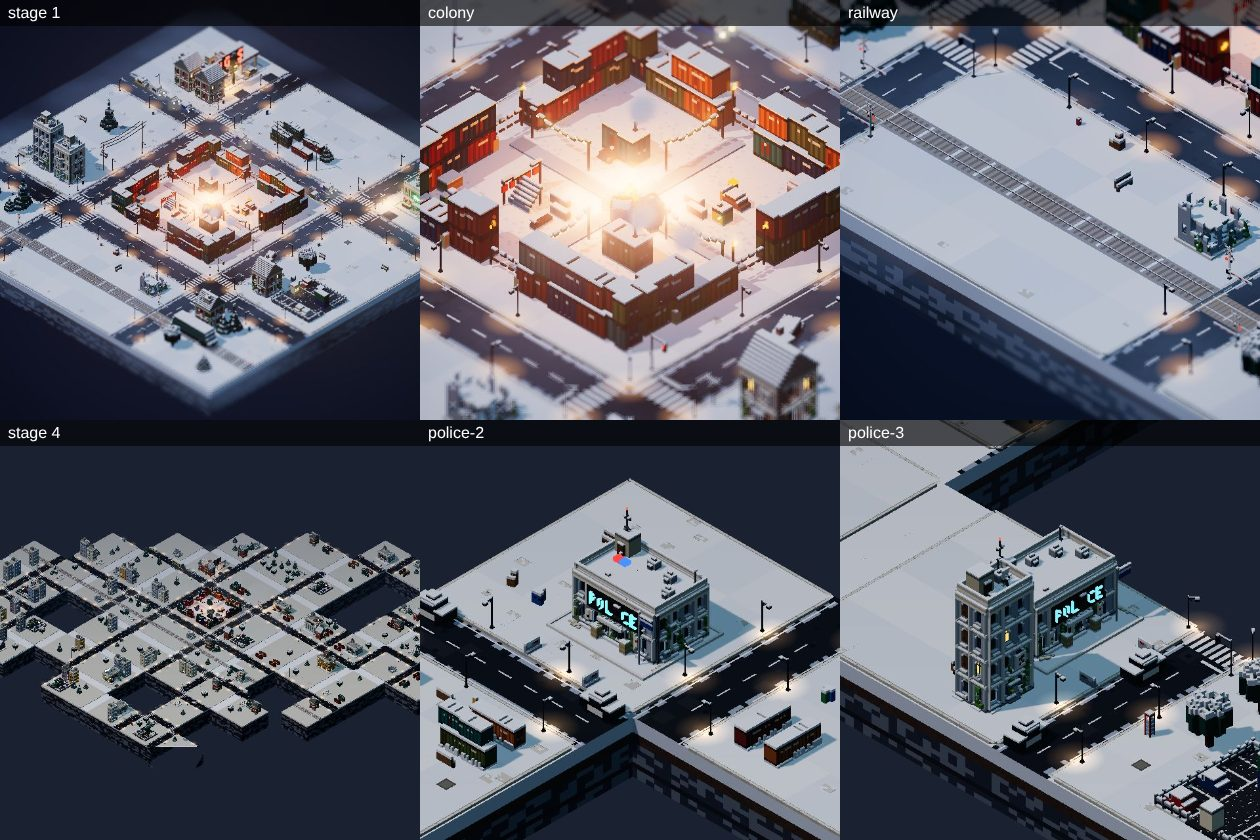
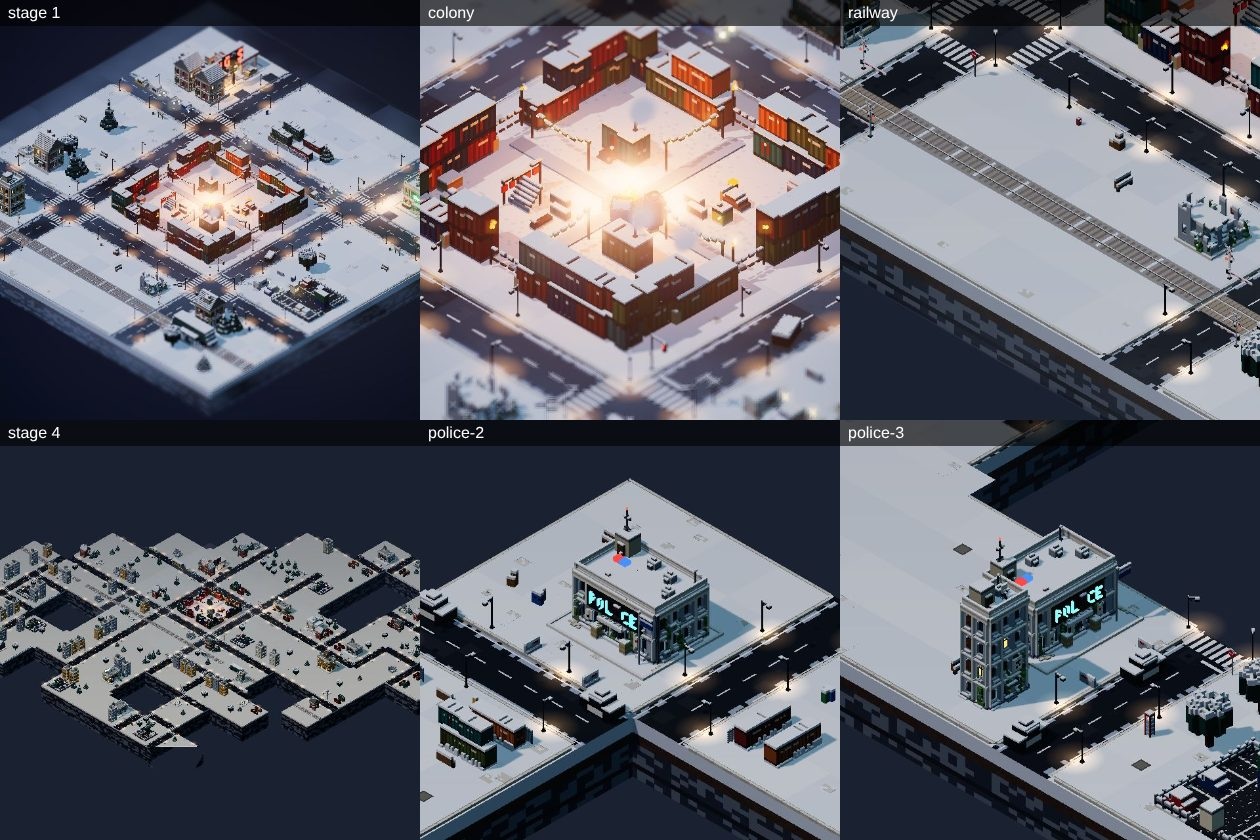
MAP-4 items 1-7: main avenue (lights, direction signs, bus stops), stop signs on side streets, downtown street walls, fenced yards and lots, power drops to buildings, a station by the avenue crossing, SAFE ZONE boards and a second checkpoint, blended district borders
Claude-Session: https://claude.ai/code/session_01QukSoSL7rSXNw6vdcpJ2RK

diff --git a/src/render/board.js b/src/render/board.js
@@ -6,7 +6,7 @@ import { VoxelModel, hash3, MATERIALS, geometriesFor, groupOf, packedBounds } fr
 import { P } from './palette.js';
 import { LOCATION_BUILDERS_HD, colonyHD, treeModelHD, rockModelHD } from './buildings.js';
 import { buildTerrainHD, ROAD } from './terrain.js';
-import { carModel, lampModel, containerModel, clutterModel, CLUTTER_KINDS, crossingModel, wagonModel, bufferStopModel, FURNITURE, furnitureModel, trafficLightModel, streetSignModel, powerPoleModel, vehicleModel, checkpointModel, burntCarModel, tentModel, statueModel } from './props.js';
+import { carModel, lampModel, containerModel, clutterModel, CLUTTER_KINDS, crossingModel, wagonModel, bufferStopModel, shelterModel, stopSignModel, directionSignModel, safeZoneModel, fenceModel, FURNITURE, furnitureModel, trafficLightModel, streetSignModel, powerPoleModel, vehicleModel, checkpointModel, burntCarModel, tentModel, statueModel } from './props.js';
 import { markingQuads, lampSpots, railQuads, streetRuns, rampQuads } from './streets.js';
 import { blockSlab, GROUND } from './ground.js';
 import { mergeGeometries } from 'three/examples/jsm/utils/BufferGeometryUtils.js';
@@ -207,7 +207,20 @@ export function districtOf(bx, bz, look = 0) {
   if (!bx && !bz) return 'colony';
   const a0 = hash3(look, 13, 7) * Math.PI * 2;
   let d = Math.abs(Math.atan2(bz, bx) - a0) % (Math.PI * 2); if (d > Math.PI) d = Math.PI * 2 - d;
-  return d < Math.PI / 3 ? 'downtown' : d > (2 * Math.PI) / 3 ? 'industrial' : 'residential';
+  const pure = (a) => (a < Math.PI / 3 ? 'downtown' : a > (2 * Math.PI) / 3 ? 'industrial' : 'residential');
+  // MAP-4: districts blend over a block: near a border some blocks take the neighbouring district's character.
+  const here = pure(d);
+  for (const step of [-Math.PI / 6, Math.PI / 6]) {
+    let d2 = Math.abs(Math.atan2(bz, bx) + step - a0) % (Math.PI * 2); if (d2 > Math.PI) d2 = Math.PI * 2 - d2;
+    if (pure(d2) !== here && hash3(bx, 97, bz) < 0.4) return pure(d2);
+  }
+  return here;
+}
+/** MAP-4: the main avenue: the colony-row edge line across the railway (seeded side): { axis, c }. */
+export function avenueLine(m) {
+  const rail = railLine(m);
+  const li = hash3(m?.look ?? 0, 19, 4) < 0.5 ? 0 : 1;
+  return { axis: rail.axis === 'x' ? 'z' : 'x', c: blockPos(li) - blockHalf(li) };
 }
 const DISTRICT_RECIPES = {
   downtown: [['shop', 55], ['house', 30], ['car', 8], ['clutter', 7]],
@@ -225,7 +238,7 @@ export const openBlock = (b, bx, bz) => RECIPES[b.kind] && b.kind !== 'place' &&
  * centrepiece and 1–2 pieces) stay inside one 3×2 window at the front; other chunks are open, now and then with one
  * bench or one tree. Seeded by the block, so a block never changes.
  */
-export function blockPieces(b, bx, bz, plan, recipe = RECIPES[b.kind] ?? RECIPES.place) {
+export function blockPieces(b, bx, bz, plan, recipe = RECIPES[b.kind] ?? RECIPES.place, district = null) {
   const out = [];
   const h = (k) => hash3(bx * 7 + k, 73, bz * 7 - k);
   const cols = plan.covered.map((c) => +c.split(',')[1]);
@@ -242,6 +255,8 @@ export function blockPieces(b, bx, bz, plan, recipe = RECIPES[b.kind] ?? RECIPES
   if (b.kind === 'place') n = built >= 4 ? (h(2) < 0.75 ? 1 : 2) : 2;
   else if (openBlock(b, bx, bz)) n = 0;
   else n = 2; // two pieces besides any centrepiece (still inside the 3×2 window)
+  // MAP-4 frontage: downtown, the whole front row of the window is built (a continuous street wall).
+  if (district === 'downtown' && !openBlock(b, bx, bz)) n = Math.max(n, win.filter(([i]) => i === 0).length);
   n = Math.min(n, 6 - built, win.length);
   const used = new Set();
   for (let k = 0; k < n; k++) {
@@ -579,7 +594,7 @@ export function createBoard({ progressive = false } = {}) {
     };
     const houses = Array.from({ length: city.SMALL_VARIANTS }, () => []);
     const put = (list, p, rotY, scale = 1) => { tmp.position.copy(p); tmp.rotation.set(0, rotY, 0); tmp.scale.setScalar(scale); tmp.updateMatrix(); list.push(tmp.matrix.clone()); };
-    const ruins = [[], []]; const pieces = { parking: [], fountain: [] }; const clutter = Array.from({ length: CLUTTER_KINDS }, () => []);
+    const ruins = [[], []]; const pieces = { parking: [], fountain: [] }; const fences = { picket: [], chain: [] }; const clutter = Array.from({ length: CLUTTER_KINDS }, () => []);
     const roadSet = new Set(map.roads);
     for (const key of keys) {
       const b = map.blocks[key];
@@ -598,7 +613,8 @@ export function createBoard({ progressive = false } = {}) {
         }
         // MAP-3 calmer blocks: everything built (place / centrepiece + pieces) fits in a 3×2 window at the street side;
         // the other chunks stay open (paving or snow, now and then one bench or one tree).
-        for (const [i, j, what] of blockPieces(b, bx, bz, plan, recipe)) {
+        for (const [i, j, what0] of blockPieces(b, bx, bz, plan, recipe, district)) {
+          const what = district === 'downtown' && i === 0 && what0 !== 'bench' && what0 !== 'tree' ? 'shop' : what0;
           const p = chunkCenter(plan, i, j);
           const r2 = hash3(bx * 5 + i, 67, bz * 5 + j);
           // Front-row buildings face the street; others any way.
@@ -608,7 +624,14 @@ export function createBoard({ progressive = false } = {}) {
             const shopPool = pool.filter((v) => v % 2 === 0); const housePool = pool.filter((v) => v % 2 === 1);
             const list = what === 'shop' && shopPool.length ? shopPool : what !== 'shop' && housePool.length ? housePool : pool;
             const v = list[Math.floor(r2 * list.length)];
-            put(houses[v % city.SMALL_VARIANTS], p, face, city.SMALL_SCALE);
+            // Downtown front rows: sized to their chunk's width, side by side (no gaps); others the usual size.
+            const wide = district === 'downtown' && i === 0 ? Math.min(1.1, (CHUNK - 0.25) / ((16 + (v % 3) * 2 + 7) * 0.3)) : city.SMALL_SCALE; // + fire escape, AC, snow bank
+            put(houses[v % city.SMALL_VARIANTS], p, face, wide);
+            const floors = 2 + (v % 3); const dep = (14 + (v % 2) * 3) * 0.3 * wide;
+            const toward = plan.fwd.clone(); if (i !== 0) toward.set(Math.sin(face), 0, Math.cos(face));
+            houseSpots.push({ roof: p.clone().addScaledVector(toward, dep / 2 - 0.2).setY(GROUND + floors * 10 * 0.3 * wide + 0.2) });
+            // Residential front yards get a picket fence along the sidewalk.
+            if (district === 'residential' && i === 0) put(fences.picket, p.clone().addScaledVector(plan.fwd, CHUNK / 2 - 0.25), face0);
           } else if (what === 'trees') {
             for (let k = 0; k < 3; k++) {
               const q = p.clone().add(new THREE.Vector3((hash3(k, bx, j) - 0.5) * 4, 0, (hash3(k, bz, i) - 0.5) * 4));
@@ -621,6 +644,7 @@ export function createBoard({ progressive = false } = {}) {
             put(cars[Math.floor(r2 * 4)], p.clone().addScaledVector(across, -1.6), face + Math.PI / 2);
             put(cars[Math.floor(hash3(i, j, bx) * 4)], p.clone().addScaledVector(across, 1.6), face + Math.PI / 2);
           } else if (what === 'yard') {
+            if (district === 'industrial' && i === 0) put(fences.chain, p.clone().addScaledVector(plan.fwd, CHUNK / 2 - 0.2), face0); // a fenced lot
             // Two stacks side by side (offset across their length, whichever way they face).
             const across = new THREE.Vector3(Math.sin(face), 0, Math.cos(face));
             put(yards[Math.floor(r2 * 3)], p.clone().addScaledVector(across, -1.7), face);
@@ -669,6 +693,7 @@ export function createBoard({ progressive = false } = {}) {
     rocks.forEach((list, k) => { if (list.length) group.add(lazyLod('near', () => instanced(() => rockModelHD(k), 0.25, list, { cacheKey: `rock-${k}`, jitter: 0 }))); });
     cars.forEach((list, v) => { if (list.length) group.add(lazyLod('near', () => instanced(() => carModel(v), 0.15, list, { cacheKey: `car4-${v}`, jitter: 0, castShadow: false }))); });
     yards.forEach((list, k) => { if (list.length) group.add(lodProp(`container-${k}`, () => containerModel(k, 1 + (k % 2)), 0.2, list)); });
+    for (const [k, list] of Object.entries(fences)) if (list.length) group.add(lazyLod('near', () => instanced(() => fenceModel(k), 0.1, list, { cacheKey: `fence-${k}`, jitter: 0, castShadow: false })));
     if (attach) root.add(group);
     return { group, k: 0, target: 1, delay: 0 };
   }
@@ -679,6 +704,7 @@ export function createBoard({ progressive = false } = {}) {
   const POOL_MAT = new THREE.MeshBasicMaterial({ map: poolTexture(), color: 0xffb36b, transparent: true, opacity: 0.55, depthWrite: false, blending: THREE.AdditiveBlending, toneMapped: false, fog: false });
   const decor = new THREE.Group(); decor.name = 'street-decor';
   const debugItems = []; // MAP audit: merged furniture pieces { kind, box }
+  const houseSpots = []; // MAP-4: roof edges of small buildings (service drops from the power lines)
   root.add(decor);
   let flickers = []; let pools = null;
   function buildStreetDecor() {
@@ -757,12 +783,24 @@ export function createBoard({ progressive = false } = {}) {
       debugItems.push({ kind: key.replace(/-\d+$/, ''), box });
     };
     const yawTo = (dx, dz) => Math.atan2(dx, dz); // local +z faces (dx, dz)
+    const taken = (x, z, r) => debugItems.some((d) => x > d.box.min.x - r && x < d.box.max.x + r && z > d.box.min.z - r && z < d.box.max.z + r);
     const { nodes, runs } = streetRuns(segs);
     const onRail = (n) => (rail.axis === 'x' ? Math.abs(n.z - rail.c) < 0.01 : Math.abs(n.x - rail.c) < 0.01);
     const junctions = nodes.filter((n) => n.kind === 'junction');
     // Junctions: traffic lights on two corners (one dead now and then, one blinking amber), a street sign.
+    const ave = avenueLine(map);
+    const onAve = (n) => (ave.axis === 'x' ? Math.abs(n.z - ave.c) < 0.01 : Math.abs(n.x - ave.c) < 0.01);
     junctions.forEach((n, i) => {
       if (onRail(n)) return; // level crossings have their own posts
+      if (!onAve(n)) {
+        // MAP-4: side-street junctions get stop signs (one each on two corners) instead of traffic lights.
+        for (const [sx, sz] of [[1, 1], [-1, -1]]) {
+          const x = n.x + sx * (ROAD.kerb + 0.35); const z = n.z + sz * (ROAD.walk + 0.6);
+          if (ground(x, z) && n.dirs.has(sz > 0 ? '+z' : '-z')) add('stop', stopSignModel, 0.1, x, GROUND, z, sz > 0 ? 0 : Math.PI);
+        }
+        return;
+      }
+      { const x = n.x - (ROAD.kerb + 0.35); const z = n.z + (ROAD.walk + 0.6); if (ground(x, z)) add('dirsign', directionSignModel, 0.1, x, GROUND, z, Math.PI / 4); }
       for (const [sx, sz] of [[1, 1], [-1, -1]]) {
         const x = n.x + sx * (ROAD.kerb + 0.35); const z = n.z + sz * (ROAD.walk + 0.6);
         if (!ground(x, z) || !n.dirs.has(sz > 0 ? '+z' : '-z')) continue; // its arm reaches over a street, not a back lane
@@ -785,7 +823,8 @@ export function createBoard({ progressive = false } = {}) {
         if (!ground(x, z) || near(x, z, nodes, 11) || near(x, z, lamps, 1.6)) continue;
         const h = hash3(Math.round(t), ri, rail.look + 13);
         let kind = h < 0.3 ? 'hydrant' : h < 0.5 ? 'bin' : h < 0.6 ? 'postbox' : h < 0.7 ? 'newsbox' : h < 0.74 ? 'phone' : h < 0.86 ? 'busstop' : null;
-        if (kind === 'busstop') { if (busStop) kind = 'bin'; busStop = true; }
+        const aveRun = r.axis === ave.axis && Math.abs(r.c - ave.c) < 0.01;
+        if (kind === 'busstop') { if (busStop || !aveRun) kind = 'bin'; else busStop = true; } // the bus route runs on the avenue
         const [dx, dz] = r.axis === 'x' ? [0, -1] : [-1, 0];
         if (kind) add(`furn-${kind}`, () => furnitureModel(kind), 0.1, x, GROUND, z, yawTo(dx, dz));
         // Street clutter (cones, crates, barrels, bags, barriers) halfway between furniture spots, same side.
@@ -802,8 +841,9 @@ export function createBoard({ progressive = false } = {}) {
     const sag = (a, b) => { for (let s2 = 0; s2 < 10; s2++) { const u = s2 / 10; const v = (s2 + 1) / 10; const span = a.distanceTo(b); const pa = a.clone().lerp(b, u); pa.y -= Math.sin(u * Math.PI) * span * 0.05; const pb = a.clone().lerp(b, v); pb.y -= Math.sin(v * Math.PI) * span * 0.05; wires.push(pa.x, pa.y, pa.z, pb.x, pb.y, pb.z); } };
     const straight = (a, b) => wires.push(a.x, a.y, a.z, b.x, b.y, b.z);
     const long = runs.filter((r) => !(r.axis === rail.axis && Math.abs(r.c - rail.c) < 0.01)).sort((a, b) => (b.t1 - b.t0) - (a.t1 - a.t0) || a.c - b.c).slice(0, 2);
+    const livePoles = [];
     long.forEach((r, ri) => {
-      const lat = -(ROAD.kerb + 1.25); // the arm (±1) stays over the sidewalk, clear of the building line
+      const lat = -(ROAD.kerb + 1.0); // the arm (±1) stays over the sidewalk, clear of the building line
       const dirT = r.axis === 'x' ? new THREE.Vector3(1, 0, 0) : new THREE.Vector3(0, 0, 1);
       const chain = []; // consecutive poles: { ends: [3 world points], base, down }
       const flush = () => {
@@ -834,9 +874,16 @@ export function createBoard({ progressive = false } = {}) {
         _e.set(tilt, yaw, 0, 'YXZ');
         const mx = new THREE.Matrix4().compose(new THREE.Vector3(x, GROUND, z), _q.setFromEuler(_e), new THREE.Vector3(1, 1, 1));
         chain.push({ base: new THREE.Vector3(x, GROUND, z), down, ends: INS.map((v) => v.clone().applyMatrix4(mx)) });
+        if (!down) livePoles.push(chain[chain.length - 1]);
       }
       flush();
     });
+    // Service drops: one thin wire from the nearest standing pole to each small building's roof edge within 12.
+    for (const h of houseSpots) {
+      let best = null; let bd = 12;
+      for (const p of livePoles) { const d = Math.hypot(p.base.x - h.roof.x, p.base.z - h.roof.z); if (d < bd) { bd = d; best = p; } }
+      if (best) sag(best.ends[1], h.roof);
+    }
     if (wires.length) {
       const wg = new THREE.BufferGeometry(); wg.setAttribute('position', new THREE.Float32BufferAttribute(wires, 3));
       const wl = new THREE.LineSegments(wg, WIRE_MAT); wl.name = 'wires'; decor.add(tagLod(wl, 'near'));
@@ -875,6 +922,31 @@ export function createBoard({ progressive = false } = {}) {
       const [x, z] = r.axis === 'x' ? [t, r.c + ROAD.half / 2] : [r.c + ROAD.half / 2, t];
       if (onRoadOk(x, z)) add('checkpoint', checkpointModel, 0.1, x, 0.03, z, r.axis === 'x' ? 0 : Math.PI / 2);
     }
+    // MAP-4 wayfinding: "SAFE ZONE →" boards along the evacuation route, arrows pointing to the colony; a second
+    // checkpoint where the route leaves the city.
+    eRuns.forEach((r) => {
+      for (let k = Math.ceil((r.t0 - 4.5) / 18); k * 18 + 4.5 <= r.t1; k++) {
+        const t = k * 18 + 4.5; if (Math.abs(t) < 14) continue;
+        const [x, z] = r.axis === 'x' ? [t, r.c + (ROAD.walk - 0.6)] : [r.c + (ROAD.walk - 0.6), t];
+        if (!ground(x, z) || near(x, z, nodes, 9) || near(x, z, lamps, 1.6) || taken(x, z, 0.8)) continue;
+        const toward = t > 0 ? -1 : 1; // the arrow (local +x) points along the street to the colony
+        add('safe', safeZoneModel, 0.1, x, GROUND, z, r.axis === 'x' ? (toward > 0 ? 0 : Math.PI) : (toward > 0 ? -Math.PI / 2 : Math.PI / 2));
+      }
+    });
+    if (eRuns.length) {
+      const far = eRuns.reduce((a, r) => (Math.abs(r.t1) > Math.abs(a.t) ? { r, t: r.t1 - ROAD.walk - 4 } : Math.abs(r.t0) > Math.abs(a.t) ? { r, t: r.t0 + ROAD.walk + 4 } : a), { t: 0 });
+      if (far.r && Math.abs(far.t) > 30) {
+        const [x, z] = far.r.axis === 'x' ? [far.t, far.r.c - ROAD.half / 2] : [far.r.c - ROAD.half / 2, far.t];
+        if (onRoadOk(x, z) && !taken(x, z, 2)) add('checkpoint', checkpointModel, 0.1, x, 0.03, z, far.r.axis === 'x' ? 0 : Math.PI / 2);
+      }
+    }
+    // The station: a platform with a shelter beside the track where the avenue crosses the railway.
+    const cross = (rail.pieces ?? []).find((p) => p[2] === 'road' && Math.abs((p[0] + p[1]) / 2 - ave.c) < 0.5);
+    if (cross) {
+      const t = ave.c + ROAD.walk + 5.5; const lat = 2.35;
+      const [x, z] = rail.axis === 'x' ? [t, rail.c + lat] : [rail.c + lat, t];
+      add('shelter', shelterModel, 0.1, x, GROUND, z, rail.axis === 'x' ? Math.PI : -Math.PI / 2);
+    }
     // Places belong to their street: driveways across the sidewalk, vehicles parked at the kerb, a few signs of use.
     const apron = () => { const m = new VoxelModel(); m.box(-15, 0, -12, 30, 1, 25, (x, _y, z) => (Math.abs(x) === 15 || Math.abs(z) === 12 ? 0x8d949e : 0x2b2e33)); return m; };
     const front = (L, along, out) => { const p = L.plan; return p.c.clone().addScaledVector(p.fwd, p.edge + out).addScaledVector(p.side, p.lat + along); };
@@ -907,7 +979,6 @@ export function createBoard({ progressive = false } = {}) {
     }
     // Small stories, 1–2 per stage, away from place entrances, gates and the evacuation route.
     const entrances = Object.values(layout).flatMap((L) => (L.plan ? [front(L, 0, 1)] : L.gates ?? []));
-    const taken = (x, z, r) => debugItems.some((d) => x > d.box.min.x - r && x < d.box.max.x + r && z > d.box.min.z - r && z < d.box.max.z + r);
     const clear = (x, z, road = false) => (road ? onRoadOk(x, z) : ground(x, z)) && !entrances.some((e) => Math.hypot(e.x - x, e.z - z) < 7) && !taken(x, z, 1.5) && !lamps.some((l) => Math.hypot(l.x - x, l.z - z) < 2.5);
     const ringOfT = (r, t) => { const [x, z] = r.axis === 'x' ? [t, r.c] : [r.c, t]; return Math.max(Math.abs(gridOf(x)), Math.abs(gridOf(z))); };
     for (let st = 1; st <= (map.stage ?? 1); st++) {
@@ -1212,6 +1283,7 @@ export function createBoard({ progressive = false } = {}) {
         glowMats.length = 0;
         lodNodes.length = 0;
         queue.length = 0;
+        houseSpots.length = 0;
         map = null;
         snap = true;
       }
@@ -1222,7 +1294,6 @@ export function createBoard({ progressive = false } = {}) {
       computeLayout(map, layout);
       streets = streetSegments(map.roads, layout);
       const newStreets = streets.filter(([, , seg]) => seg === 'gate' ? !oldRoads.size : !oldRoads.has(seg));
-      buildStreetDecor();
       // Old blocks next to new ones (or new streets) get fresh terrain: their rim is now inside the city.
       const touched = new Set();
       for (const k of fresh) { const [bx, bz] = parse(k); for (let dx = -1; dx <= 1; dx++) for (let dz = -1; dz <= 1; dz++) touched.add(`${bx + dx},${bz + dz}`); }
@@ -1254,6 +1325,7 @@ export function createBoard({ progressive = false } = {}) {
         batches.push(batch);
         if (!snap) startPop(batch, 0, (pos) => 0.3 + Math.min(2.4, (Math.hypot(pos.x, pos.z) - inner) * spread));
       }
+      buildStreetDecor(); // after the blocks: power drops need the new buildings
       const xs = Object.keys(map.blocks).map((k) => parse(k)[0]); const zs = Object.keys(map.blocks).map((k) => parse(k)[1]);
       // World extents of the open blocks (street centre lines around them).
       const lo = (v) => blockPos(v) - blockHalf(v); const hi = (v) => blockPos(v) + blockHalf(v);

diff --git a/src/render/props.js b/src/render/props.js
@@ -260,3 +260,45 @@ export function bufferStopModel() {
   m.box(-4, 10, -1, 1, 6, 1, 0x3a3f46); m.box(-4, 16, -2, 1, 3, 3, 0xff3a2a, true);
   return m.snowCap(P.snow, 1, 2);
 }
+
+// ---------------------------------------------------------------- MAP-4: signs and fences (0.1 world per voxel)
+
+/** A stop sign on a post (octagon-ish red plate, white band), facing +z. */
+export function stopSignModel() {
+  const m = new VoxelModel();
+  m.box(0, 0, 0, 1, 20, 1, 0x8e979f);
+  for (let y = 0; y < 7; y++) for (let x = -3; x <= 3; x++) if (Math.abs(x) + Math.abs(y - 3) <= 4) m.set(x, 19 + y, 1, y === 3 && Math.abs(x) < 3 ? 0xf0f0ea : 0xc0392b);
+  return m.snowCap(P.snow, 1, 2);
+}
+
+/** A direction sign: post with three arrow plates (hospital red, police blue, station green), facing +z. */
+export function directionSignModel() {
+  const m = new VoxelModel();
+  m.box(0, 0, 0, 1, 30, 1, 0x3a4048);
+  [[27, 0xc0392b, 1], [23, 0x2b4a8c, -1], [19, 0x1f6b45, 1]].forEach(([y, c, s]) => {
+    for (let x = 0; x < 9; x++) m.box(s > 0 ? 1 + x : -1 - x, y, 1, 1, 3 - (x === 8 ? 2 : 0), 1, c);
+    m.set(s > 0 ? 9 : -9, y + 1, 1, c); m.set(s > 0 ? 4 : -4, y + 1, 2, 0xf0f0ea);
+  });
+  return m.snowCap(P.snow, 1, 2);
+}
+
+/** A hand-painted board on legs: "SAFE ZONE →" (the arrow points along +x). */
+export function safeZoneModel() {
+  const m = new VoxelModel();
+  for (const x of [-6, 6]) m.box(x, 0, 0, 1, 9, 1, 0x5e4129);
+  m.box(-8, 9, 0, 17, 7, 1, 0xd9cfa8);
+  for (let x = -6; x < 2; x++) if (x % 3) m.set(x, 13, 1, 0x1c1f24);
+  for (let x = -6; x < 4; x++) m.set(x, 11, 1, 0x2f6b4a);
+  for (let k = 0; k < 3; k++) { m.set(4 + k, 11 + k, 1, 0x2f6b4a); m.set(4 + k, 11 - k, 1, 0x2f6b4a); }
+  return m.snowCap(P.snow, 1, 2);
+}
+
+/** A fence 6 world long along x: 'picket' (white wooden, residential) or 'chain' (chain-link with posts, industrial). */
+export function fenceModel(kind = 'picket') {
+  const m = new VoxelModel();
+  for (let x = -30; x < 30; x++) {
+    if (kind === 'picket') { if (x % 2 === 0) m.box(x, 0, 0, 1, 7, 1, 0xe8e4d8); m.set(x, 2, -1, 0xd8d2c2); m.set(x, 5, -1, 0xd8d2c2); }
+    else { if (x % 6 === 0) m.box(x, 0, 0, 1, 12, 1, 0x6c7580); for (let y = 1; y < 11; y++) if ((x + y) % 2 === 0) m.set(x, y, 0, 0x9aa3ad); m.set(x, 11, 0, 0x6c7580); if (x % 3 === 0) m.set(x, 12, 0, 0x8e979f); }
+  }
+  return m.snowCap(P.snow, 1, 2);
+}

diff --git a/src/render/city.js b/src/render/city.js
@@ -856,27 +856,6 @@ export function ruins() {
   return m.snowCap(P.snow, 1, 1);
 }
 
-/** A rail yard: two tracks, a boxcar, a signal. */
-export function railYard() {
-  const m = new VoxelModel();
-  for (let x = 0; x < 56; x++) for (let z = 0; z < 48; z++) m.set(x, 0, z, hash3(x, 5, z) < 0.3 ? 0x6c665e : P.snow);
-  for (const tz of [14, 32]) for (let x = 0; x < 56; x++) {
-    if (x % 3 === 0) m.box(x, 1, tz - 3, 1, 1, 8, 0x5a4232);
-    m.set(x, 2, tz - 2, C.metal); m.set(x, 2, tz + 3, C.metal);
-  }
-  m.box(10, 3, 29, 24, 9, 7, C.cont[0]); m.box(10, 12, 29, 24, 1, 7, C.roofDark);
-  m.clearBox(20, 4, 35, 4, 7, 1);
-  m.box(44, 1, 22, 1, 14, 1, C.metalDark); m.box(43, 13, 22, 3, 3, 1, 0x15191e); m.set(44, 14, 23, C.neonRed, true);
-  return m.snowCap(P.snow, 1, 1);
-}
-
-// ---------------------------------------------------------------- MAP-1b: small buildings that fill a block's free chunks
-
-export const SMALL_VARIANTS = 8;
-export const SMALL_SCALE = 0.86; // instance scale: a small building fills its chunk with a little room around it
-const SMALL_WALLS = [C.sage, C.cream, C.grey, C.brick, C.ochre, 0x8fa3b8, 0xb9a48a, 0x9b8b9e];
-
-/** A small, closed-up building (not a place you can enter): 1–4 floors, sized to one chunk. */
 export function smallBuilding(v = 0) {
   const m = new VoxelModel();
   const w = 16 + (v % 3) * 2; const d = 14 + (v % 2) * 3;

diff --git a/docs/rework-plan.md b/docs/rework-plan.md
@@ -465,3 +465,16 @@ hand from the Actions tab). One-time setup: Settings → Pages → Source: GitHu
 - Amber traffic lights blink (own small mesh).
 - Audit: 6 seeds × 4 stages, 0 findings; contact sheets regenerated.
 - Left as known limits: place signs face their street, so some face away from the camera (pins carry the names); a small pale wedge can show at one rim corner in whole-city views; draw calls ~120–260 (target 60 needs a renderer rework: terrain merged per growth, models instanced across blocks); the stage-1 railway only crosses a few blocks.
+
+### MAP-4 — a connected city (done)
+- 1 Street hierarchy: a seeded main avenue (the colony-row edge across the railway). Traffic lights and direction signs (hospital / police / station arrows) only at avenue junctions; side-street junctions get stop signs; bus stops only on the avenue.
+- 2 Frontage: downtown front rows are a continuous street wall (small buildings sized to their chunk's width, side by side); residential houses get a picket fence along the sidewalk; industrial yards a chain-link fence.
+- 3 Back alleys: not built as separate pieces (blocks keep their 3×2 build window); the joined ground (item 8) gives the backs of blocks one surface.
+- 4 Networks: power drops from the nearest standing pole to every small building's roof edge within 12; a station platform with a shelter beside the track where the avenue crosses the railway.
+- 5 Wayfinding: "SAFE ZONE →" boards every ~18 along the evacuation route pointing to the colony; a second checkpoint where the route leaves the city.
+- 6 Transitions: near a district border some blocks take the neighbouring district's character.
+- 7 Checks: the audit covers the new pieces (0 findings over 6 seeds × 4 stages). Not built: footprints from the colony to visited places (the game's footprint decals already follow walkers), freight sidings, bus route numbers.
+- 8 Blocks with no street between them join flush (no kerb, cut or side face on that edge; the corner square filled); a street ending there stops at the slab.
+- 9 Hospital: no ER neon; the red cross is a framed white roof sign on posts (helipad moved back), a small cross plate on the ER canopy.
+- 10 Library: a classical civic building (symmetric hall, taller pavilion with 4 columns, entablature, pediment with a round window, low dome with a lantern, arched windows, plinth, full-width steps, lamp posts, book drop, noticeboard, one boarded window, a cracked column); no BOOKS neon.
+- 11 Power lines: cross arms across the street; wires end on the insulators computed from each pole's transform (a leaning pole carries them); poles lean / fall along the street; guy wires at the ends of every run; wires from a fallen pole's neighbours hang to the ground.
